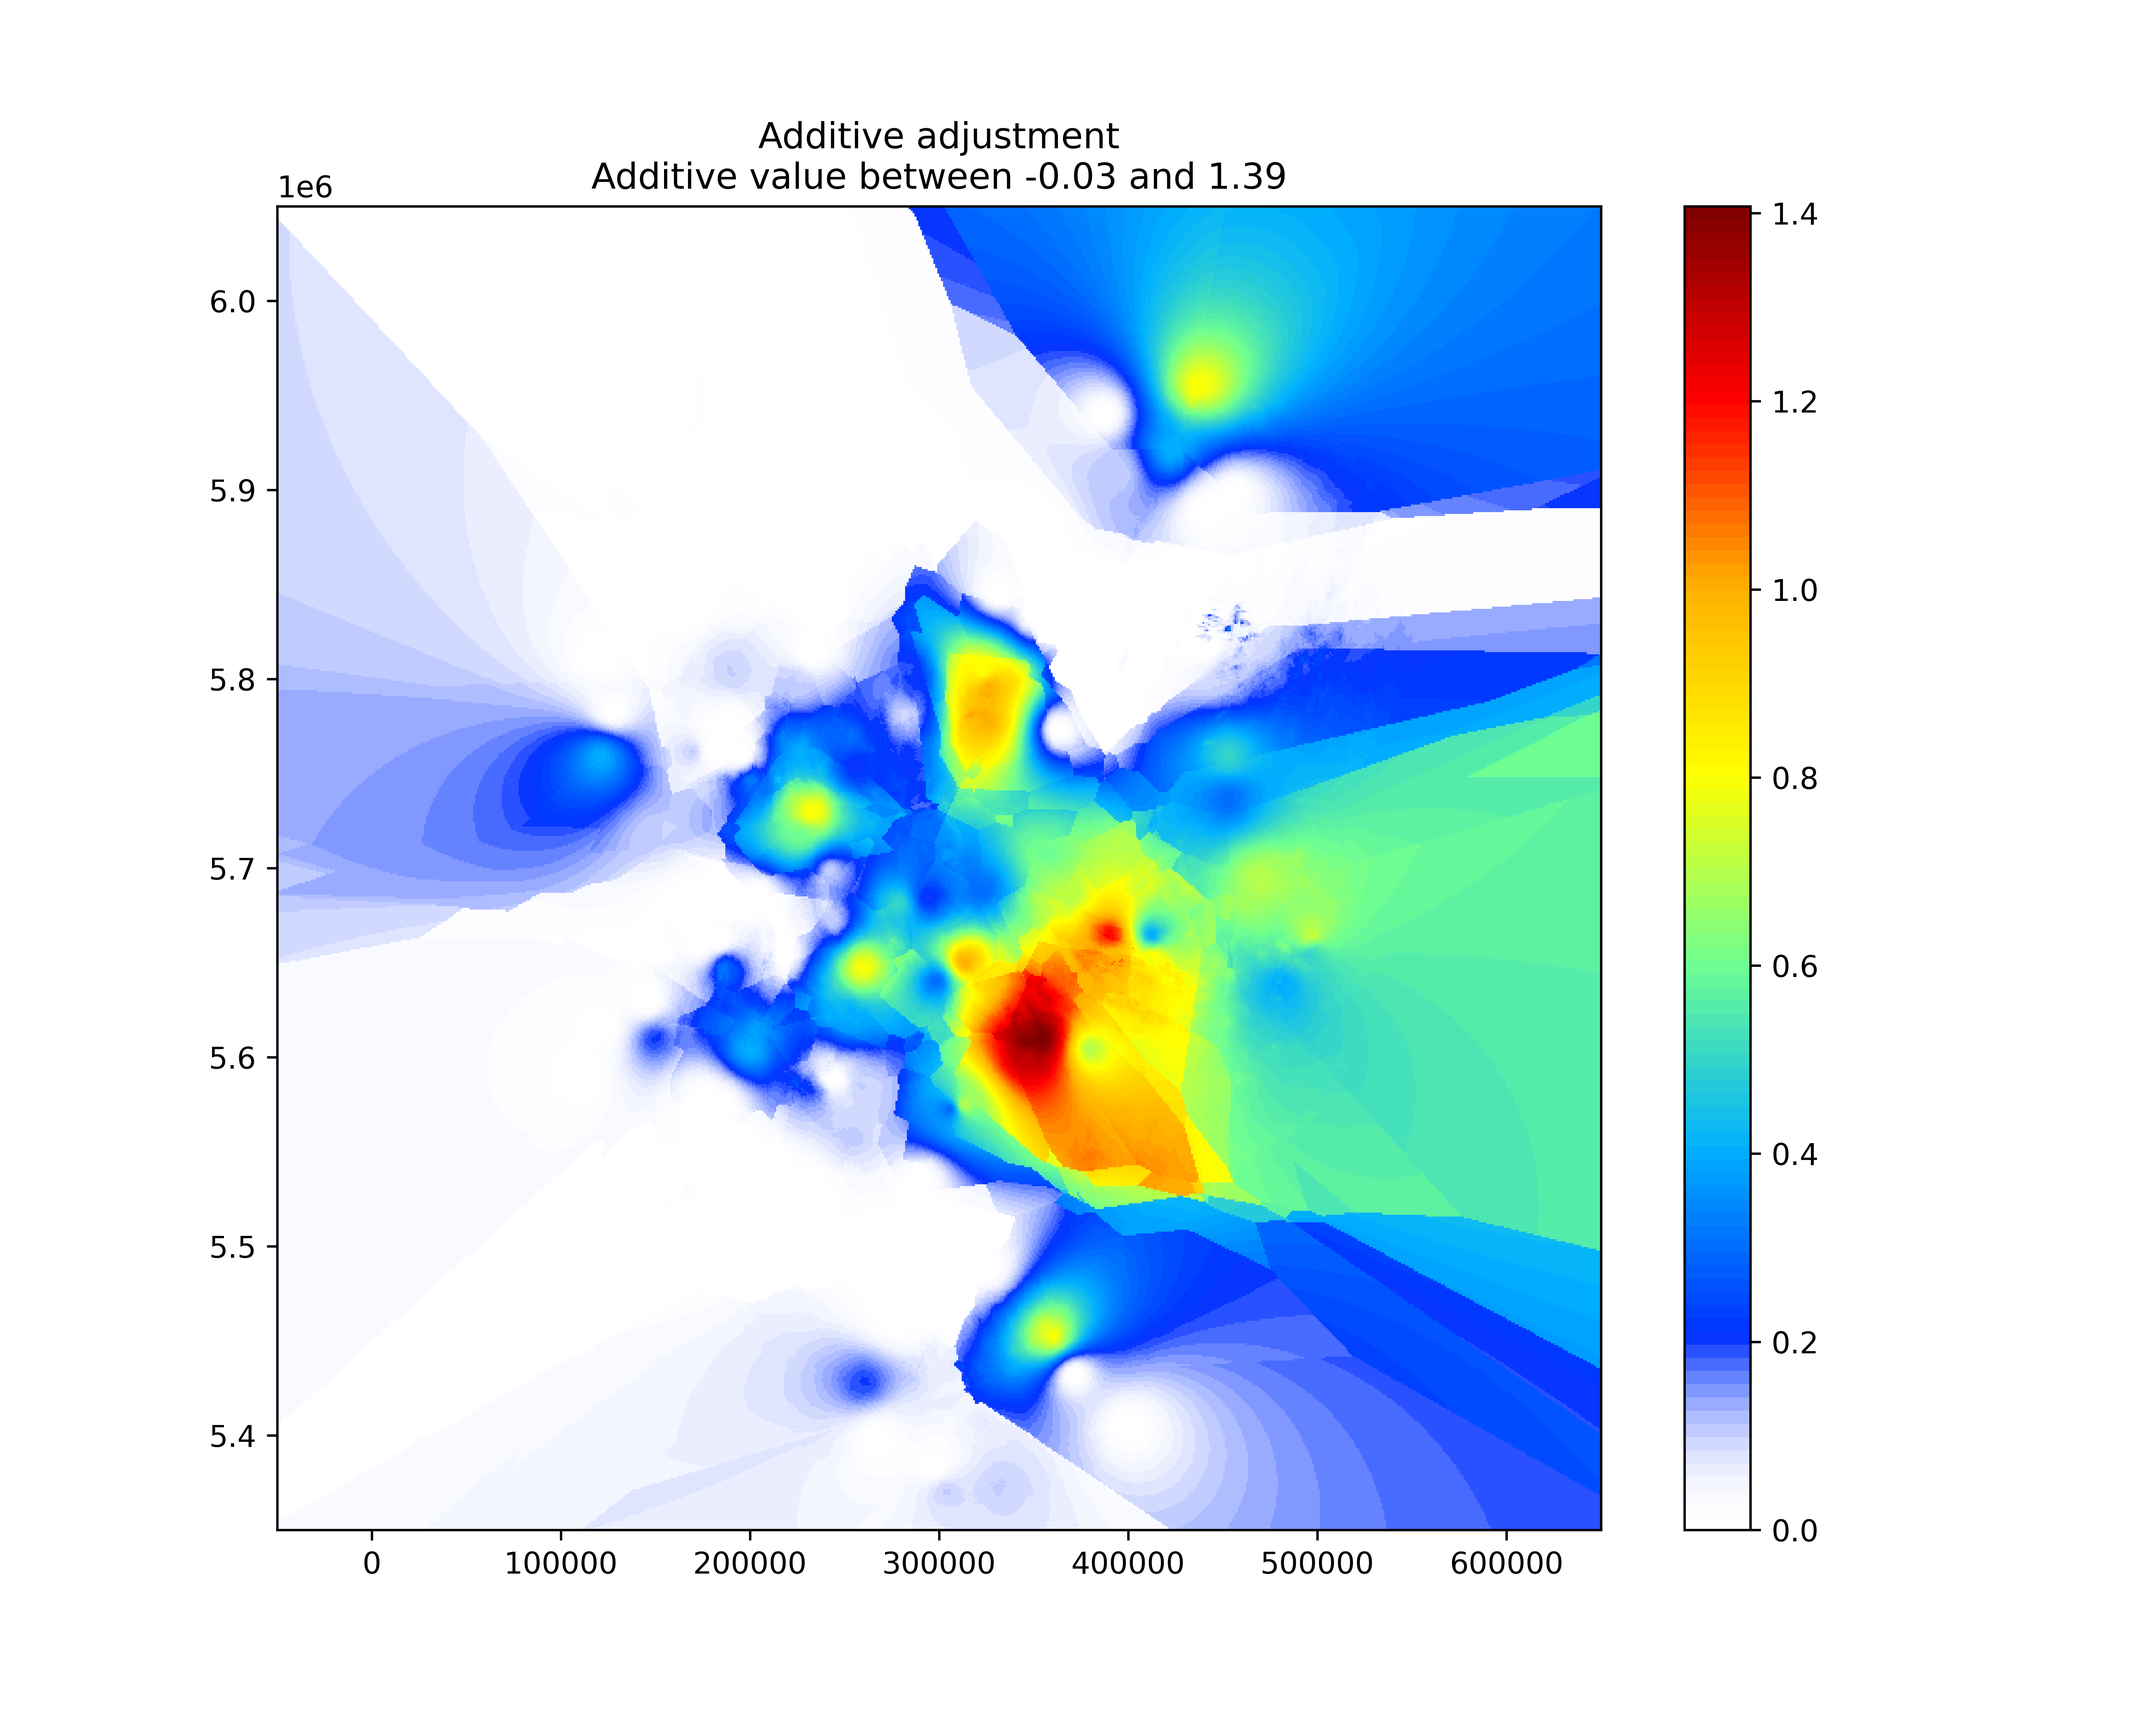
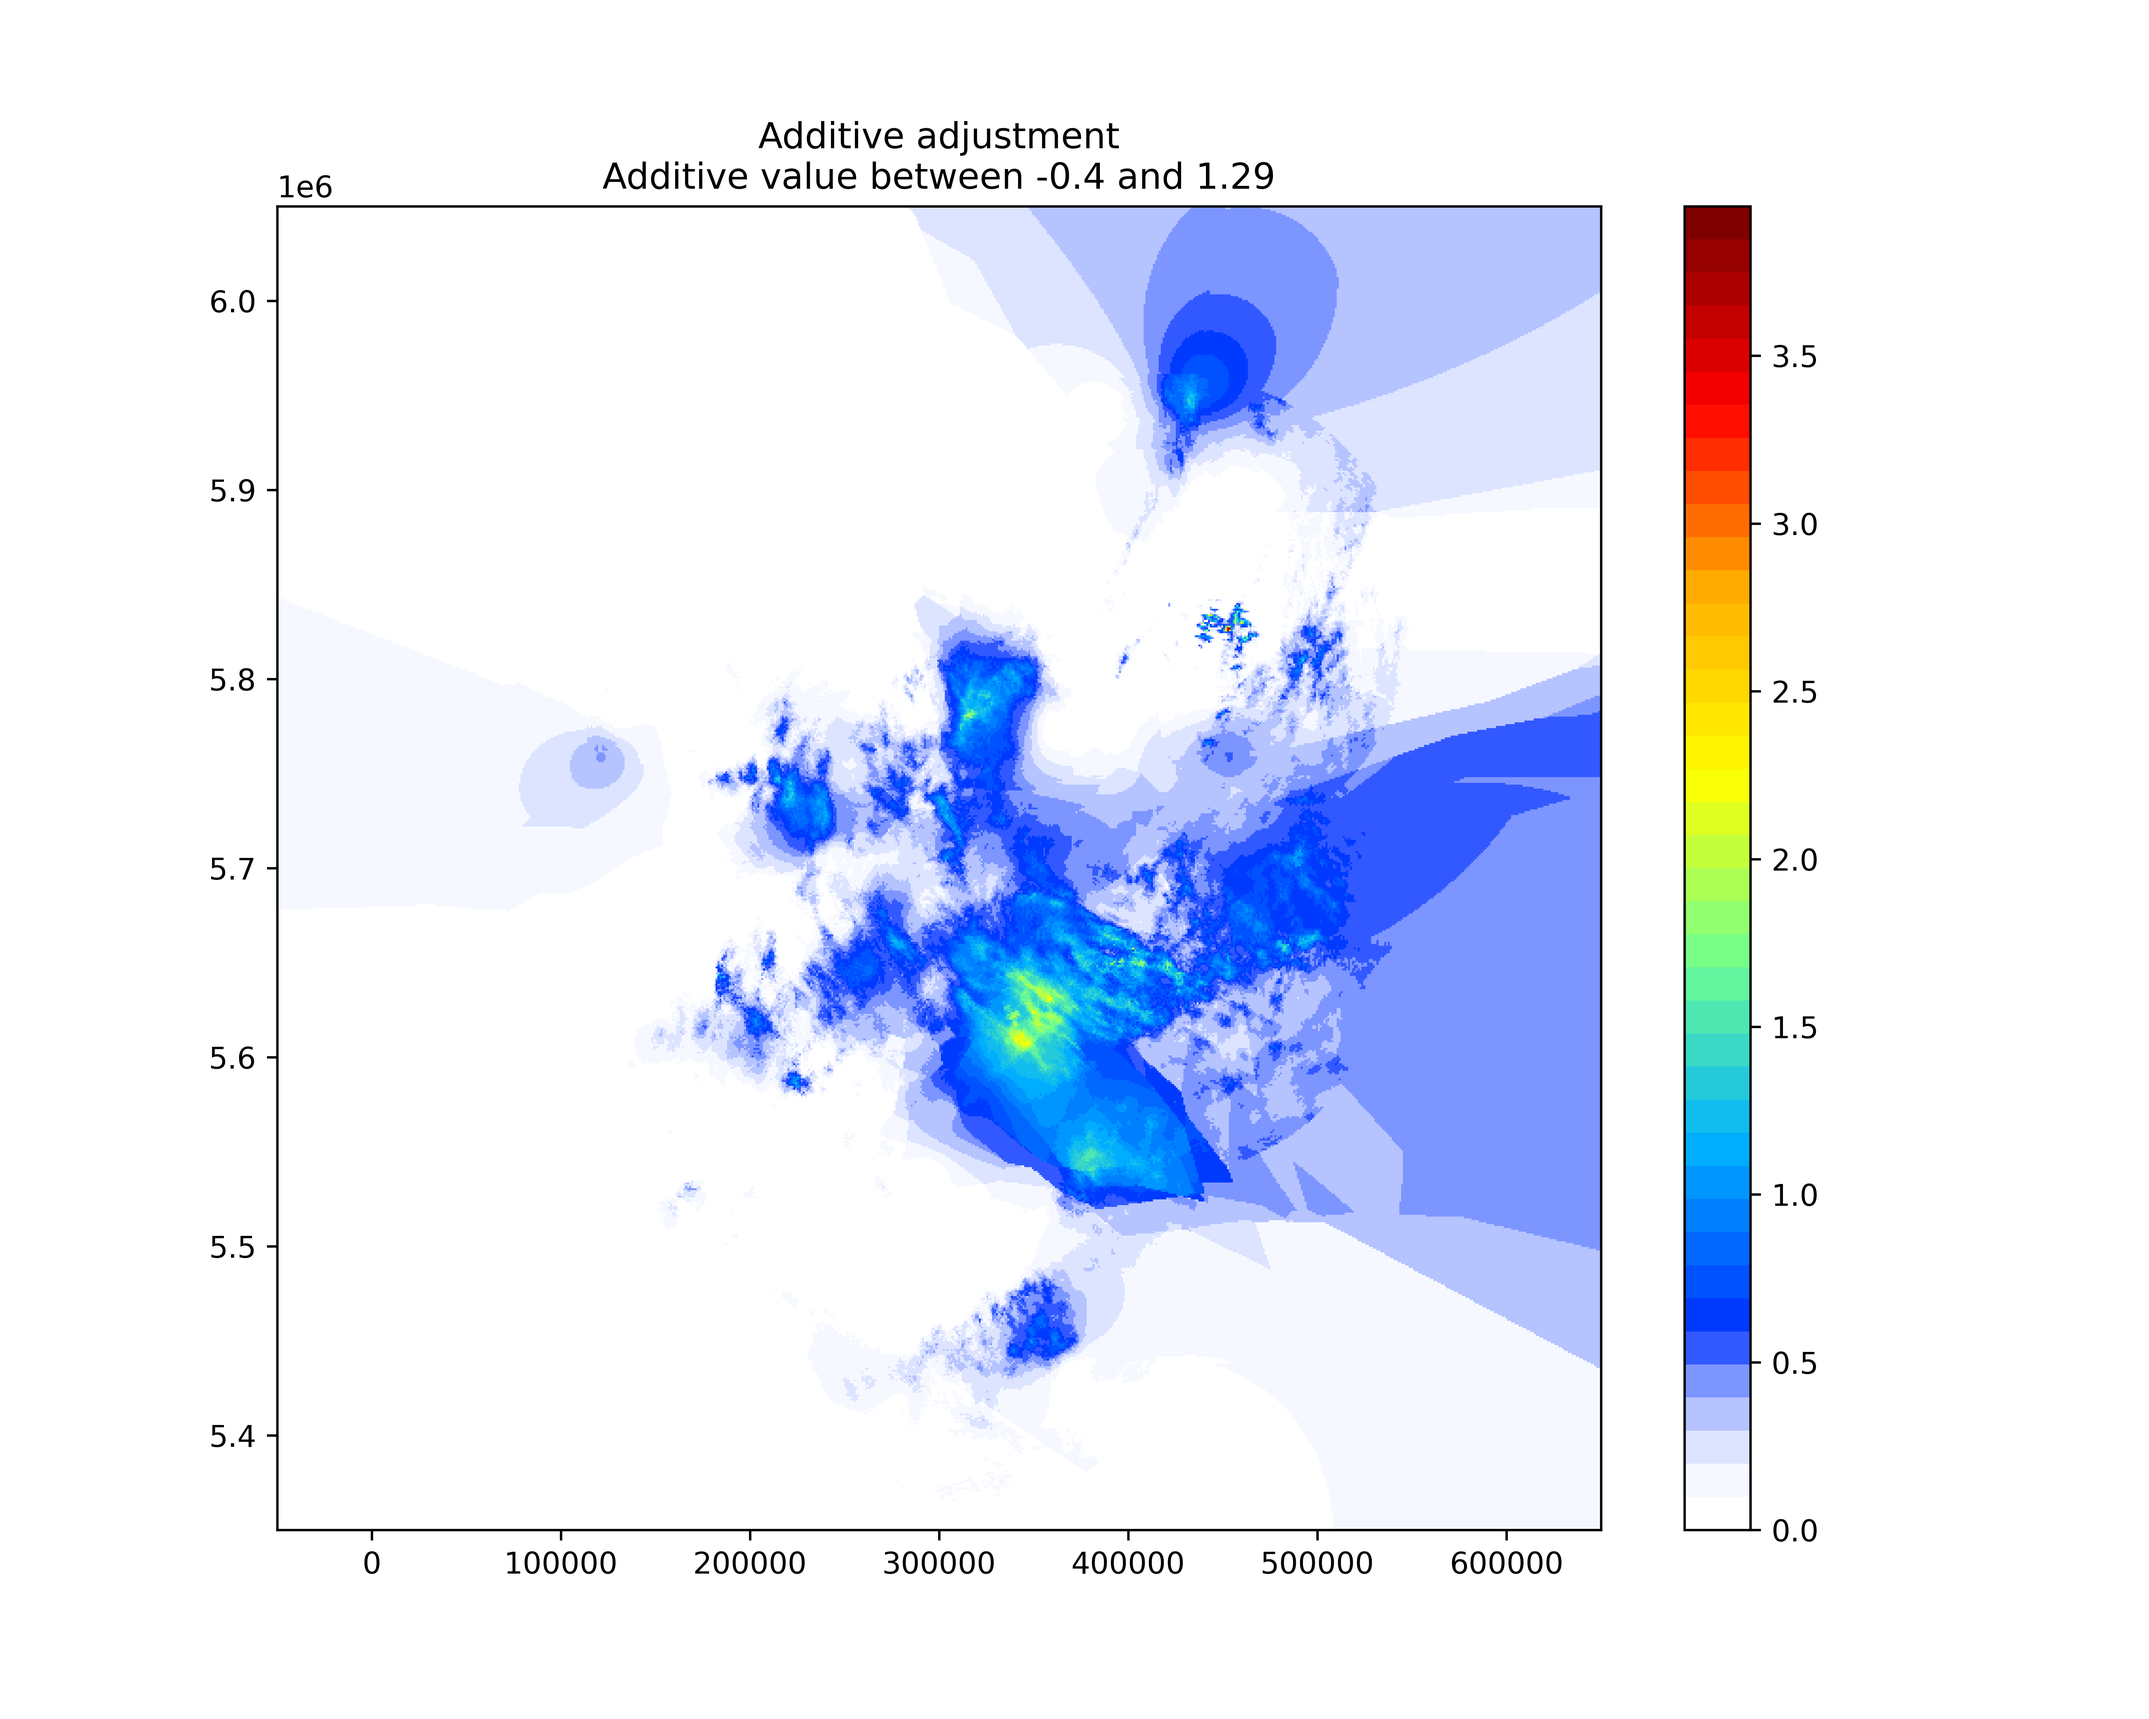
Change colorbar. Use 60min composite.

Changed region(s): [[0.1247, 0.125, 0.748, 0.9062], [0.2805, 0.0938, 0.748, 0.3125], [0.7792, 0.75, 0.8415, 0.8438]]

diff --git a/code/example_1901091200.py b/code/example_1901091200.py
@@ -62,11 +62,6 @@ def polar_to_utm(filename, radar_location_latlon):
     gridded = gridded.reshape((len(xgrid), len(ygrid)))    
     return gridded
 
-
-def blending_radar_domains(domain, gridded_data):
-    """Change nan's to zeros. Choose element wise maximum."""
-    return np.maximum(domain, np.nan_to_num(gridded_data))
-
 gridded_drs = polar_to_utm(filename_drs, radar_location_drs)
 gridded_eis = polar_to_utm(filename_eis, radar_location_eis)
 gridded_umd = polar_to_utm(filename_umd, radar_location_umd)
@@ -79,7 +74,12 @@ for row in range(700):
         if 430 <= row <=439 and 286 <= col <= 303:
             gridded_umd[row][col]=0
 
-# Merge radar domains.            
+# Merge radar domains.      
+
+def blending_radar_domains(domain, gridded_data):
+    """Change nan's to zeros. Choose element wise maximum."""
+    return np.maximum(domain, np.nan_to_num(gridded_data))
+      
 domain = blending_radar_domains(np.zeros((700,700)), gridded_drs)
 domain = blending_radar_domains(domain, gridded_eis)
 domain = blending_radar_domains(domain, gridded_pro)
@@ -90,14 +90,14 @@ radar = domain
 # Save grid information to files.
 np.savetxt("geodata/xgrid.txt", xgrid, fmt = "%.4f")
 np.savetxt("geodata/ygrid.txt", ygrid, fmt = "%.4f")
-np.savetxt("geodata/griddata_5min.txt", radar, fmt = "%.4f")
+np.savetxt("geodata/griddata_60min.txt", radar, fmt = "%.4f")
 
 # Plot composite.
 fig = pl.figure(figsize=(10,8))
 ax = pl.subplot(111, aspect="equal") # aspect=111/71
-pm = pl.pcolormesh(xgrid, ygrid, radar, cmap=cm, vmax=0.35)
+pm = pl.pcolormesh(xgrid, ygrid, radar, cmap=cm, vmax=4)
 cbar = pl.colorbar(pm)
-cbar.set_label("5 min - rain depths (mm)", fontsize=12)
+cbar.set_label("60 min - rain depths (mm)", fontsize=12)
 ax.ticklabel_format(useOffset=False, style='plain')
 pl.xlabel("Easting (m)")
 pl.ylabel("Northing (m)")
@@ -109,7 +109,7 @@ pl.grid(lw=0.5)
 pl.xlabel("Easting", fontsize=12)
 pl.ylabel("Northing", fontsize=12)
 pl.title('09-01-2019 12:00 UTC\nDWD RADAR composite\nUTM zone 33N (EPSG 32633)', fontsize=12)
-pl.savefig(f"images/composite_{filename_drs[15:25]}_utm5min", dpi=600)
+pl.savefig(f"images/composite_{filename_drs[15:25]}_utm60min", dpi=600)
 
 
 def latlon_to_utm33N(lon, lat):
@@ -233,3 +233,5 @@ pm = ax.pcolormesh(xgrid, ygrid, diff, cmap=cm)
 cbar = pl.colorbar(pm)
 pl.title("Multiplicative adjustment difference")
 pl.savefig("adjustment_mul_diff", dpi=600)
+
+print(":) :) :)")

diff --git a/code/func.py b/code/func.py
@@ -108,7 +108,7 @@ def get_depths(filename):
     plot_attenuation_per_bin(data_no_clutter, data_attcorr, filename, 180)
     plot_attenuation_per_bin(data_no_clutter, data_attcorr, filename, 270)
     plot_attenuation_mean_bin(data_no_clutter, data_attcorr, filename)
-    depths = rain_depths(data_attcorr, filename, 300)
+    depths = rain_depths(data_attcorr, filename, 300*12)
     plot_raindepths(depths, filename)    
     return depths
 
@@ -130,7 +130,7 @@ def plot_raindepths(depths, filename):
     ax, im = wrl.vis.plot_ppi(depths, cmap=cm)
     ax = wrl.vis.plot_ppi_crosshair((0,0,0), ranges=[20,40,60,80,100,120,128])
     cbar = pl.colorbar(im, shrink=0.75)
-    cbar.set_label("5 min - rain depths (mm)")
+    cbar.set_label("60 min - rain depths (mm)")
     pl.xlim([-135, 135])
     pl.ylim([-135, 135])
     site_abb, site_text, dt = metadata(filename)

diff --git a/code/colorbar.py b/code/colorbar.py
@@ -6,5 +6,5 @@ colors = [(1,1,1,0), (0,0.19,1), (0,0.69,1), (0.44,1,0.56), (1,1,0), (1,0.69,0),
 colors2 = [(1,1,1,0), (1,0,0)]
 
 # Create colormap with 150 bins: few bins > discrete colorbar
-cm = LinearSegmentedColormap.from_list("new_jet", colors, N=100) 
+cm = LinearSegmentedColormap.from_list("new_jet", colors, N=40) 
 cm_binary = LinearSegmentedColormap.from_list("new_jet", colors2, N=2) 
